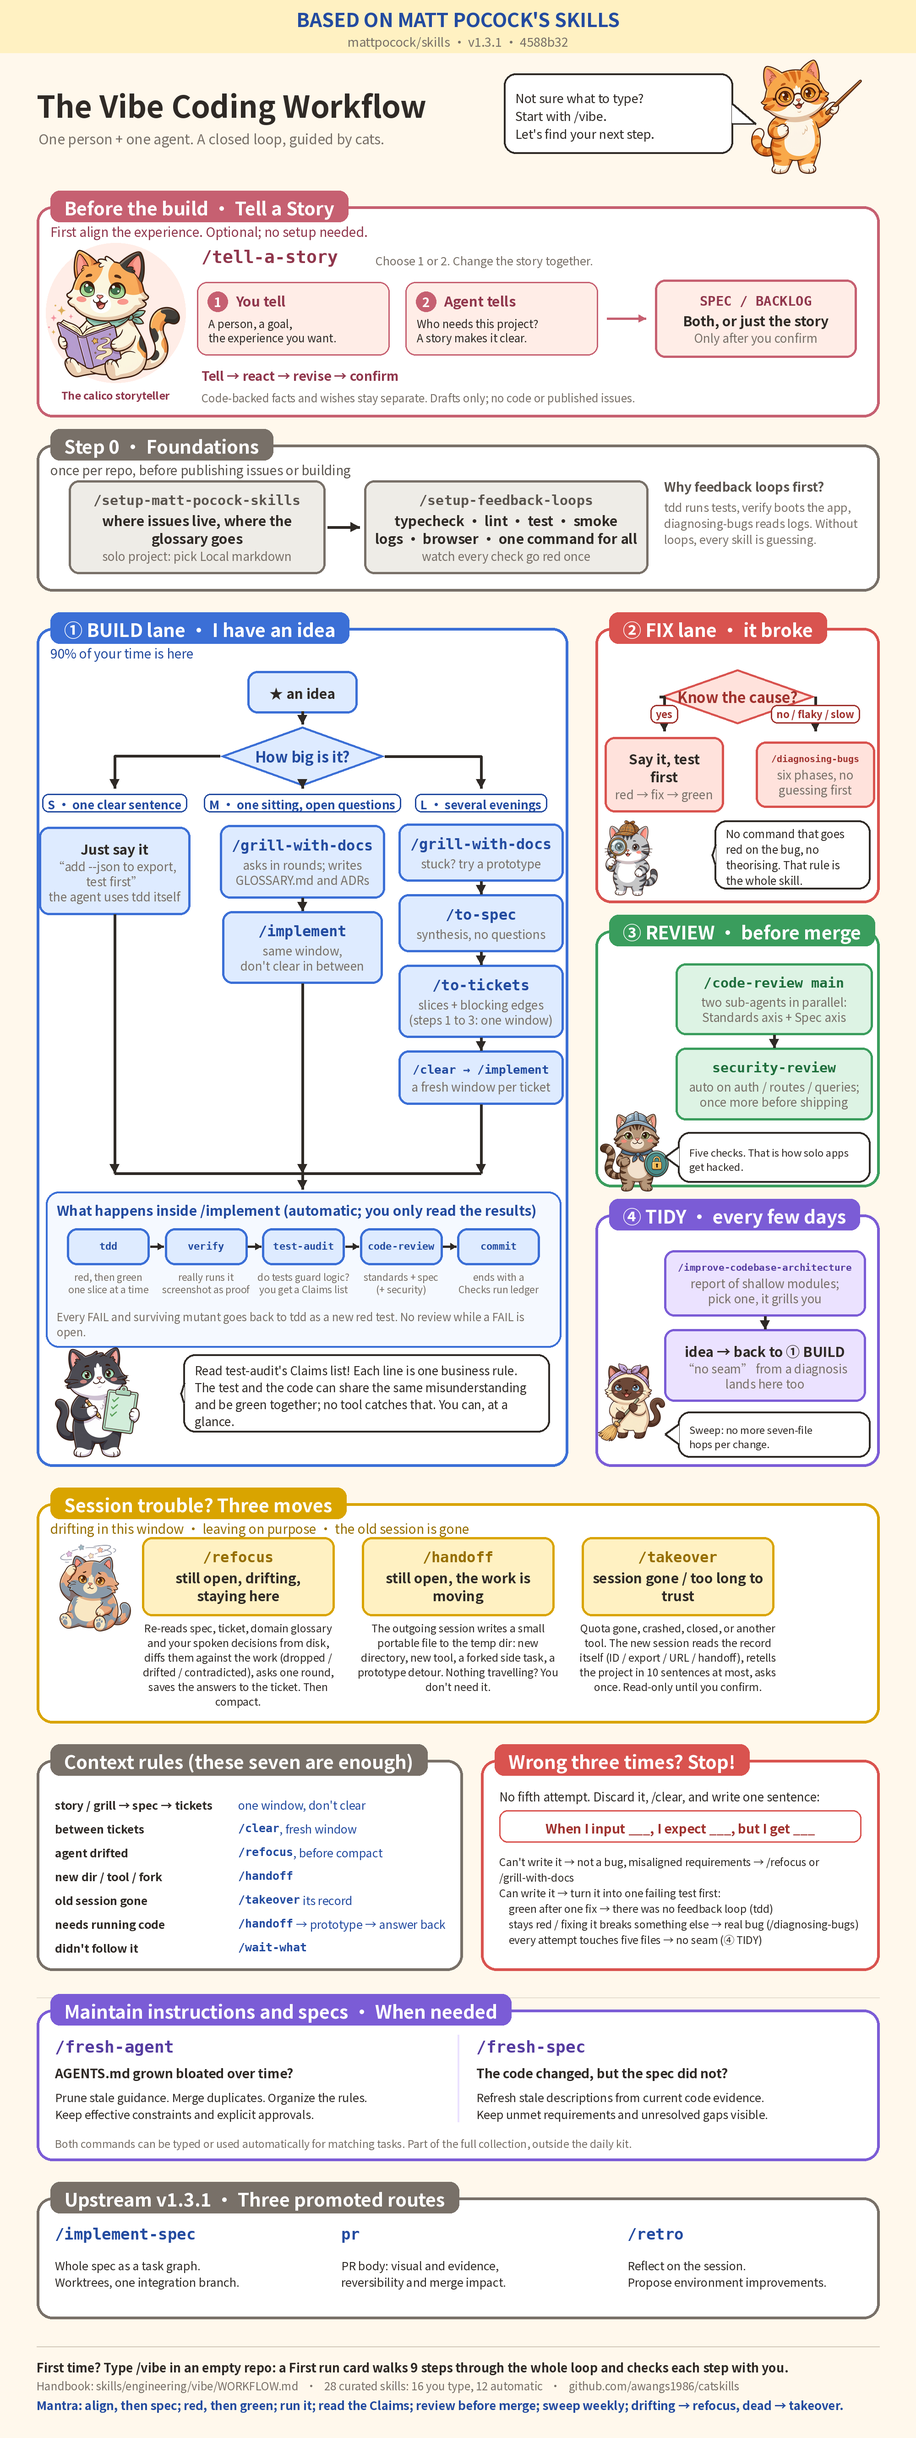
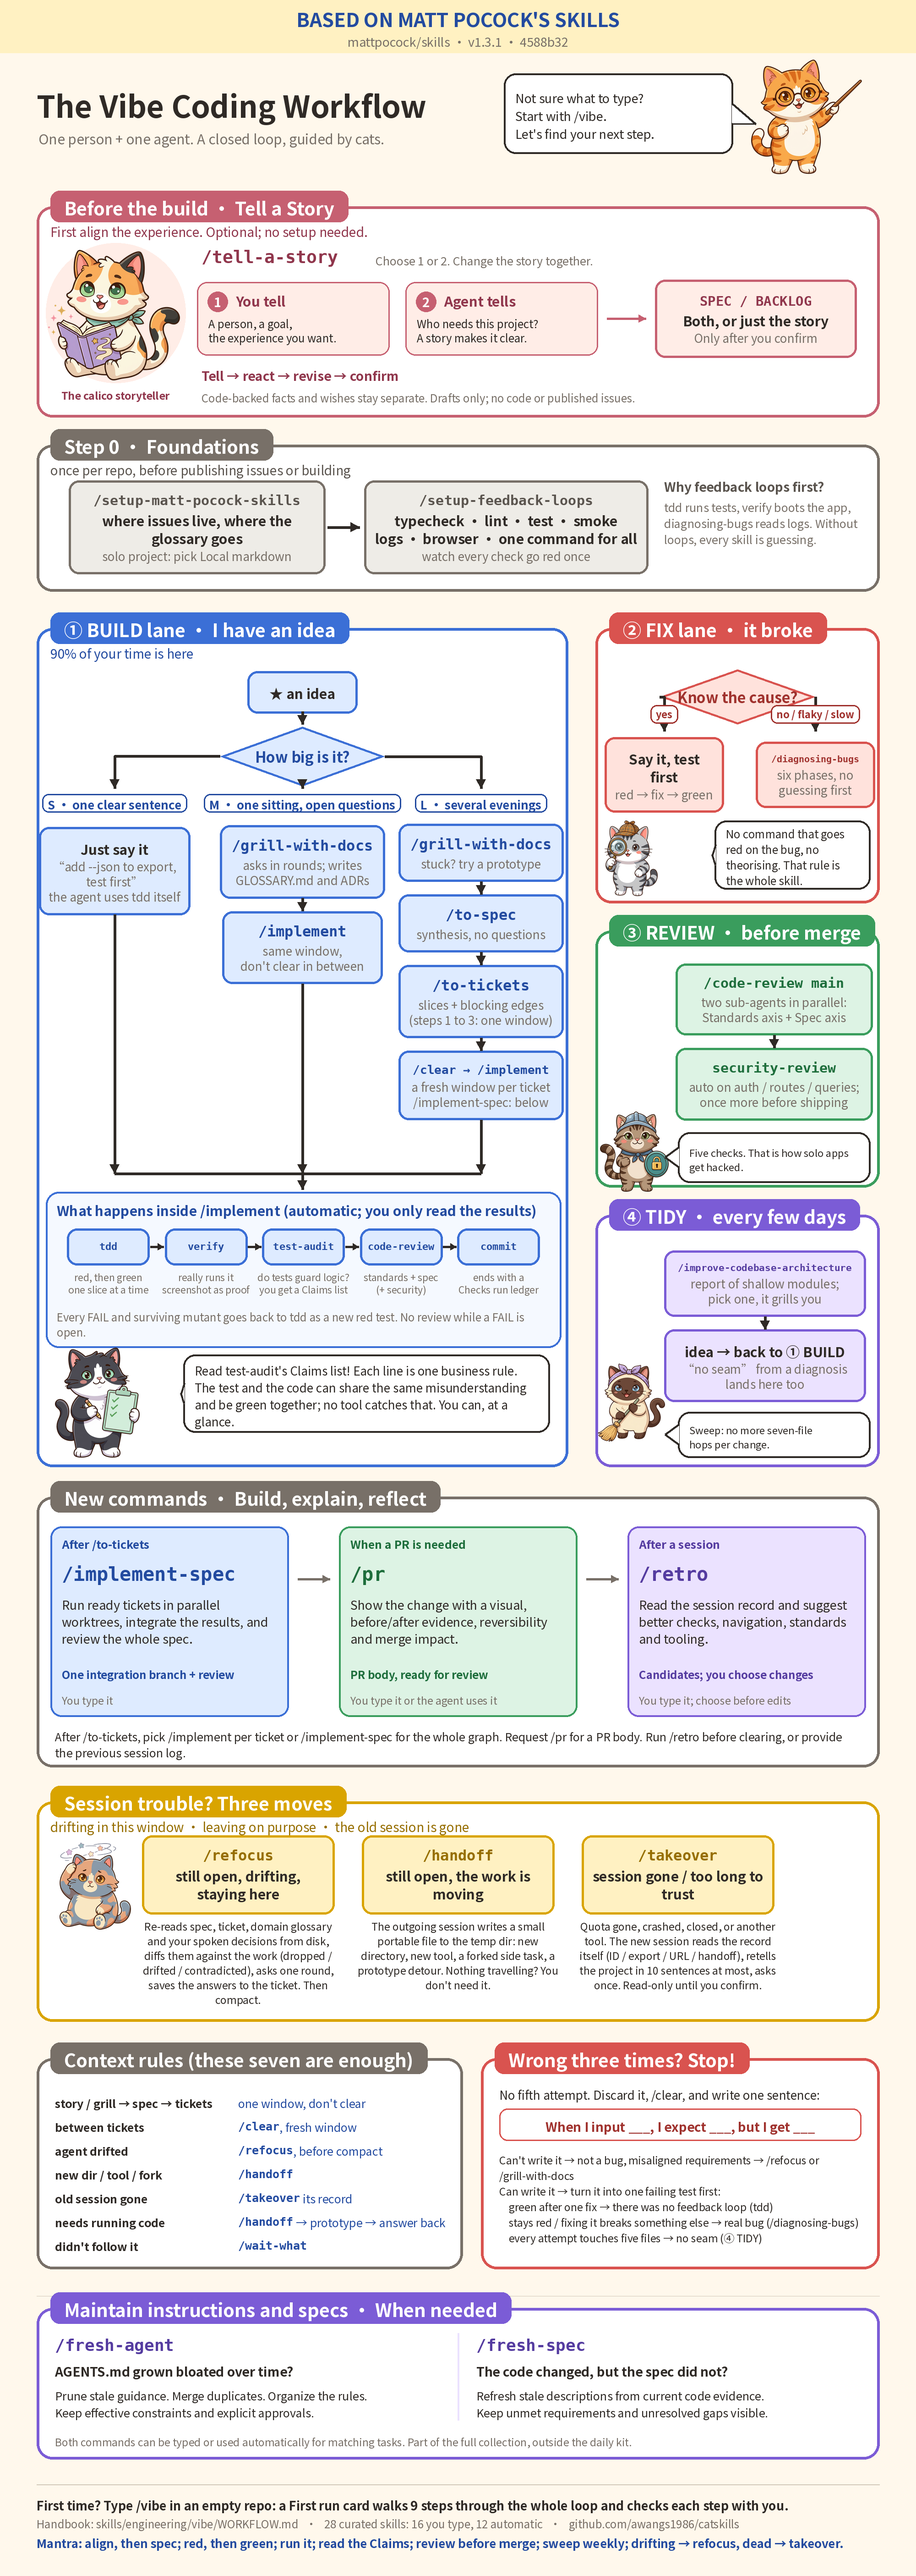
docs: highlight implement-spec pr and retro in workflow posters

diff --git a/docs/engineering/poster/build_poster.py b/docs/engineering/poster/build_poster.py
@@ -243,8 +243,8 @@ arrow([(1050, l1_box[3]), (1050, l2_box[1])])
 l3_cy = place_below(l2_box, 360, 130, cmd="/to-tickets", note="slices + blocking edges\n(steps 1 to 3: one window)")
 l3_box = node(1050, l3_cy, 360, 130, "build", cmd="/to-tickets", note="slices + blocking edges\n(steps 1 to 3: one window)")
 arrow([(1050, l2_box[3]), (1050, l3_box[1])])
-l4_cy = place_below(l3_box, 360, 100, cmd="/clear → /implement", cmd_size=26, note="a fresh window per ticket")
-l4_box = node(1050, l4_cy, 360, 100, "build", cmd="/clear → /implement", cmd_size=26, note="a fresh window per ticket")
+l4_cy = place_below(l3_box, 360, 100, cmd="/clear → /implement", cmd_size=26, note="a fresh window per ticket\n/implement-spec: below")
+l4_box = node(1050, l4_cy, 360, 100, "build", cmd="/clear → /implement", cmd_size=26, note="a fresh window per ticket\n/implement-spec: below")
 arrow([(1050, l3_box[3]), (1050, l4_box[1])])
 arrow([(1050, l4_box[3]), (1050, 1920)])
 
@@ -398,18 +398,28 @@ text(120, y + 198, 'Prune stale guidance. Merge duplicates. Organize the rules.\
 text(1040, y + 198, 'Refresh stale descriptions from current code evidence.\nKeep unmet requirements and unresolved gaps visible.', F(25, False), maxw=820, spacing=1.5)
 text(120, y + 300, 'Both commands can be typed or used automatically for matching tasks. Part of the full collection, outside the daily kit.', F(23, False), fill=GRAY, maxw=1760)
 
-# =================== CURRENT UPSTREAM ROUTES ===================
-UPSTREAM_TOP, UPSTREAM_HEIGHT = MAINTENANCE_TOP + MAINTENANCE_HEIGHT, 350
+# =================== BUILD AND CLOSE-OUT COMMANDS ===================
+# Put the current commands directly after the lanes, before session recovery.
+UPSTREAM_TOP, UPSTREAM_HEIGHT = 2600 + STORY_HEIGHT, 650
 flow = img
 img = Image.new("RGB", (W, flow.height + UPSTREAM_HEIGHT), BG)
 img.paste(flow.crop((0, 0, W, UPSTREAM_TOP)), (0, 0))
 img.paste(flow.crop((0, UPSTREAM_TOP, W, flow.height)), (0, UPSTREAM_TOP + UPSTREAM_HEIGHT))
 d = ImageDraw.Draw(img)
 y = UPSTREAM_TOP
-panel(80, y + 25, 1920, y + 290, "setup", 'Upstream v1.3.1 · Three promoted routes')
-for x, command, description in [(120, "/implement-spec", 'Whole spec as a task graph.\nWorktrees, one integration branch.'), (745, "pr", 'PR body: visual and evidence,\nreversibility and merge impact.'), (1370, "/retro", 'Reflect on the session.\nPropose environment improvements.')]:
-    text(x, y + 85, command, MONO(34), fill=LANES["build"]["dark"])
-    text(x, y + 155, description, F(25, False), maxw=520, spacing=1.45)
+panel(80, y + 25, 1920, y + 615, "setup", 'New commands · Build, explain, reflect')
+command_cards = [('build', 'After /to-tickets', '/implement-spec', 'Run ready tickets in parallel worktrees, integrate the results, and review the whole spec.', 'One integration branch + review', 'You type it'), ('review', 'When a PR is needed', '/pr', 'Show the change with a visual, before/after evidence, reversibility and merge impact.', 'PR body, ready for review', 'You type it or the agent uses it'), ('tidy', 'After a session', '/retro', 'Read the session record and suggest better checks, navigation, standards and tooling.', 'Candidates; you choose changes', 'You type it; choose before edits')]
+for x, (lane, when, command, description, result, invocation) in zip((110, 740, 1370), command_cards):
+    c = LANES[lane]
+    rbox(x, y + 90, x + 520, y + 505, c["fill"], c["edge"], r=24, width=4)
+    text(x + 25, y + 110, when, F(25), fill=c["dark"], maxw=470)
+    text(x + 25, y + 170, command, MONO(42), fill=c["dark"])
+    text(x + 25, y + 240, description, F(27, False), maxw=470, spacing=1.4)
+    text(x + 25, y + 395, result, F(24), fill=c["dark"], maxw=470)
+    text(x + 25, y + 452, invocation, F(23, False), fill=GRAY, maxw=470)
+arrow([(650, y + 205), (720, y + 205)], color=GRAY, width=5, head=18)
+arrow([(1280, y + 205), (1350, y + 205)], color=GRAY, width=5, head=18)
+text(120, y + 530, 'After /to-tickets, pick /implement per ticket or /implement-spec for the whole graph. Request /pr for a PR body. Run /retro before clearing, or provide the previous session log.', F(25, False), fill=INK, maxw=1760, spacing=1.4)
 
 # =================== UPSTREAM ATTRIBUTION ===================
 ATTRIBUTION_HEIGHT = 120

diff --git a/docs/engineering/poster/README.md b/docs/engineering/poster/README.md
@@ -5,9 +5,9 @@ Two one-page pictures of [the vibe handbook](../../../skills/engineering/vibe/WO
 - `../vibe-workflow-poster.png`, drawn by `build_poster.py` (English, linked from the top-level `README.md`).
 - `../vibe-workflow-poster.zh-CN.png`, drawn by `build_poster_zh.py` (Chinese, linked from `README.zh-CN.md`). Its Chinese strings are readable source on purpose; `scripts/check-skills.mjs` allows CJK in exactly that path (see `CLAUDE.md`).
 
-Both posters are 2000 × 5320 pixels. The story band sits before setup because storytelling needs no issue tracker: 1 is user-led, 2 is agent-led to explain who needs the project and why through a connected human story, both allow revisions, and only a confirmed story becomes optional SPEC / BACKLOG drafts. It does not add a fifth lane or authorize coding and issue publication. The maintenance band sits above the footer and covers AGENTS.md cleanup and spec refreshes, including their approval and requirement-preservation boundaries. These two standalone tools belong to the full collection of 39 promoted skills; the footer counts the curated kit (28 skills).
+Both posters are 2000 × 5620 pixels. The story band sits before setup because storytelling needs no issue tracker: 1 is user-led, 2 is agent-led to explain who needs the project and why through a connected human story, both allow revisions, and only a confirmed story becomes optional SPEC / BACKLOG drafts. It does not add a fifth lane or authorize coding and issue publication. The maintenance band sits above the footer and covers AGENTS.md cleanup and spec refreshes, including their approval and requirement-preservation boundaries. These two standalone tools belong to the full collection of 39 promoted skills; the footer counts the curated kit (28 skills).
 
-The top banner prominently credits Matt Pocock's Skills and identifies upstream v1.3.1 / 4588b32. A current-upstream band shows `implement-spec`, `pr`, and `retro`; the first is a whole-spec alternative, while PR authoring and session reflection are in the daily kit. The original four lanes and fork verification chain remain visible.
+The top banner prominently credits Matt Pocock's Skills and identifies upstream v1.3.1 / 4588b32. Three large command cards sit immediately after the four lanes: `/implement-spec`, `/pr`, and `/retro`. Each names when to use it, what it produces, and who can invoke it. The Build lane points to the whole-spec alternative after `/to-tickets`; PR authoring is conditional on needing a PR body, and retrospective findings remain candidates for the user to choose. The original four lanes and fork verification chain remain visible.
 
 ## The cat crew
 

diff --git a/README.md b/README.md
@@ -68,11 +68,11 @@ Four more jobs cover maintenance and session care:
 
 ## The workflow at a glance
 
-Four lanes, one setup step, three moves for when a session goes sideways, and optional instruction and spec maintenance tools. You are always in exactly one lane. `/vibe` reads this map for you; the full text is in [`skills/engineering/vibe/WORKFLOW.md`](./skills/engineering/vibe/WORKFLOW.md).
+Four lanes, one setup step, three moves for when a session goes sideways, and optional instruction and spec maintenance tools. The poster also shows three current commands beside the main flow: `/implement-spec` for the whole ticket graph, `/pr` for the PR body, and `/retro` for session improvements. You are always in exactly one lane. `/vibe` reads this map for you; the full text is in [`skills/engineering/vibe/WORKFLOW.md`](./skills/engineering/vibe/WORKFLOW.md).
 
 <p align="center">
   <a href="./docs/engineering/vibe-workflow-poster.png">
-    <img src="./docs/engineering/vibe-workflow-poster.png" alt="The Vibe Coding Workflow poster: seven cats with distinct coats guide Tell a Story product alignment, setup, four lanes, the implement loop, session recovery, and fresh-agent / fresh-spec maintenance" width="900">
+    <img src="./docs/engineering/vibe-workflow-poster.png" alt="The Vibe Coding Workflow poster: seven cats guide product alignment, four lanes, implement-spec, pr, retro, session recovery, and fresh-agent / fresh-spec maintenance" width="900">
   </a>
 </p>
 
@@ -86,7 +86,7 @@ Once that picture is shared, size the build:
 
 - **S**, one clear sentence: just say it and add "test first". The agent uses `tdd` on its own.
 - **M**, one sitting with open questions: `/grill-with-docs` → `/implement`, same window.
-- **L**, several evenings: `/grill-with-docs` → `/to-spec` → `/to-tickets` → a fresh window and `/implement` per ticket. A question that needs running code to settle takes the `prototype` detour and folds the answer back into the grill.
+- **L**, several evenings: `/grill-with-docs` → `/to-spec` → `/to-tickets`, then a fresh window and `/implement` per ticket, or `/implement-spec` for the whole graph. A question that needs running code to settle takes the `prototype` detour and folds the answer back into the grill.
 
 **Lane 2, Fix: it broke.** Know the cause? Say it, test first. Don't, or it's flaky or slow? `/diagnosing-bugs`. No command that goes red on the bug, no theorising: that rule is the whole skill.
 

diff --git a/.changeset/show-upstream-commands-on-poster.md b/.changeset/show-upstream-commands-on-poster.md
@@ -1,0 +1,5 @@
+---
+"cat-skills": patch
+---
+
+Show /implement-spec, /pr, and /retro as large command cards directly after the workflow lanes in both posters. Include their triggers, outputs, and invocation boundaries, and point the Build lane to whole-spec orchestration. Synchronize the English and Chinese README captions and the poster source documentation.
